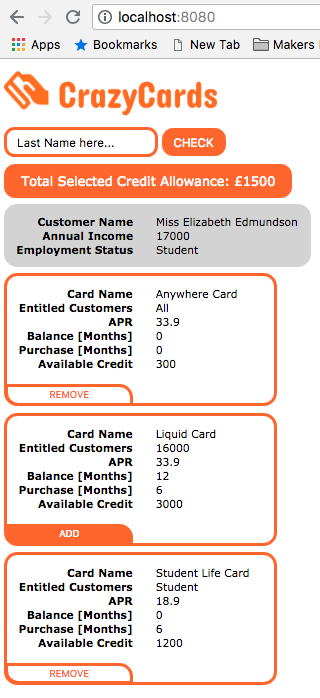
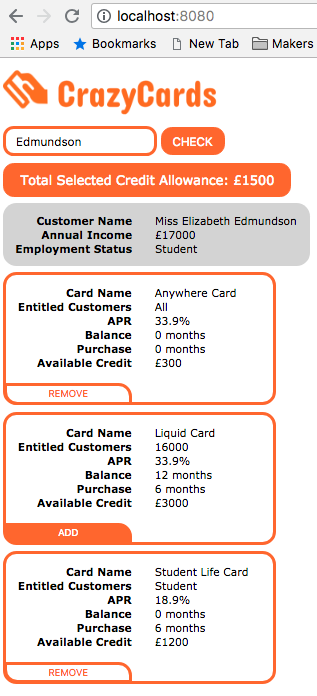
README, minor

diff --git a/src/components/card.js b/src/components/card.js
@@ -43,20 +43,20 @@ class Card extends Component {
 
           <tr>
             <th>APR</th>
-            <td className={'card__data'}>{apr}</td>
+            <td className={'card__data'}>{apr}%</td>
           </tr>
           <tr>
-            <th>Balance [Months]</th>
-            <td className={'card__data'}>{balance_mths}</td>
+            <th>Balance</th>
+            <td className={'card__data'}>{balance_mths} months</td>
           </tr>
 
           <tr>
-            <th>Purchase [Months]</th>
-            <td className={'card__data'}>{purchase_mths}</td>
+            <th>Purchase</th>
+            <td className={'card__data'}>{purchase_mths} months</td>
           </tr>
           <tr>
             <th>Available Credit</th>
-            <td className={'card__data'}>{credit_avail}</td>
+            <td className={'card__data'}>£{credit_avail}</td>
           </tr>
           <tbody>
           <div>

diff --git a/src/components/customer_data.js b/src/components/customer_data.js
@@ -18,7 +18,7 @@ class CustomerData extends Component {
           </tr>
           <tr>
             <th className={'customer_data__label'}>Annual Income</th>
-            <td>{annual_income}</td>
+            <td>£{annual_income}</td>
           </tr>
           <tr>  
             <th className={'customer_data__label'}>Employment Status</th>

diff --git a/README.md b/README.md
@@ -23,6 +23,7 @@
 - add responsivness
 - add some tests, app was not TDD
 - FIX: gulpfile to run ```gulp default``` a seqence of watcher, sass, browserSync? 
+- FIX: console.log error on card.js where <tr> cannot be immediate child of <table>
 - BUG: clearing results when name doesn't match ones in data.json
 - BUG: selecting card with Rieck and changing to Edmundson keeps 'Anywhere Card' selected (shared by both customers), app should reset state after each Last Name submission
 - refactoring needed to REDUX state management, passing state two level deep is prone to errors, may be acceptable for immediate parent/child components
